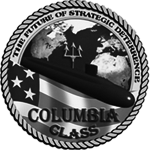
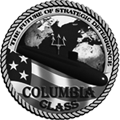
Center, resize

diff --git a/index.html b/index.html
@@ -571,11 +571,11 @@
         </header>
 
         <div class="row justify-content-center">
-          <div class="col-md-4"><img src="img/clients/client-1.png" alt=""></div>
-          <div class="col-md-4"><img src="img/clients/client-2.png" alt=""></div>
-          <div class="col-md-4"><img src="img/clients/client-3.png" alt=""></div>
+          <div class="col-md-2"><img src="img/clients/client-1.png" alt=""></div>
+          <div class="col-md-2"><img src="img/clients/client-2.png" alt=""></div>
+          <div class="col-md-2"><img src="img/clients/client-3.png" alt=""></div>
         </div>
-        
+
         <!-- <div class="owl-carousel clients-carousel">
           <img src="img/clients/client-1.png" alt="">
           <img src="img/clients/client-2.png" alt="">
